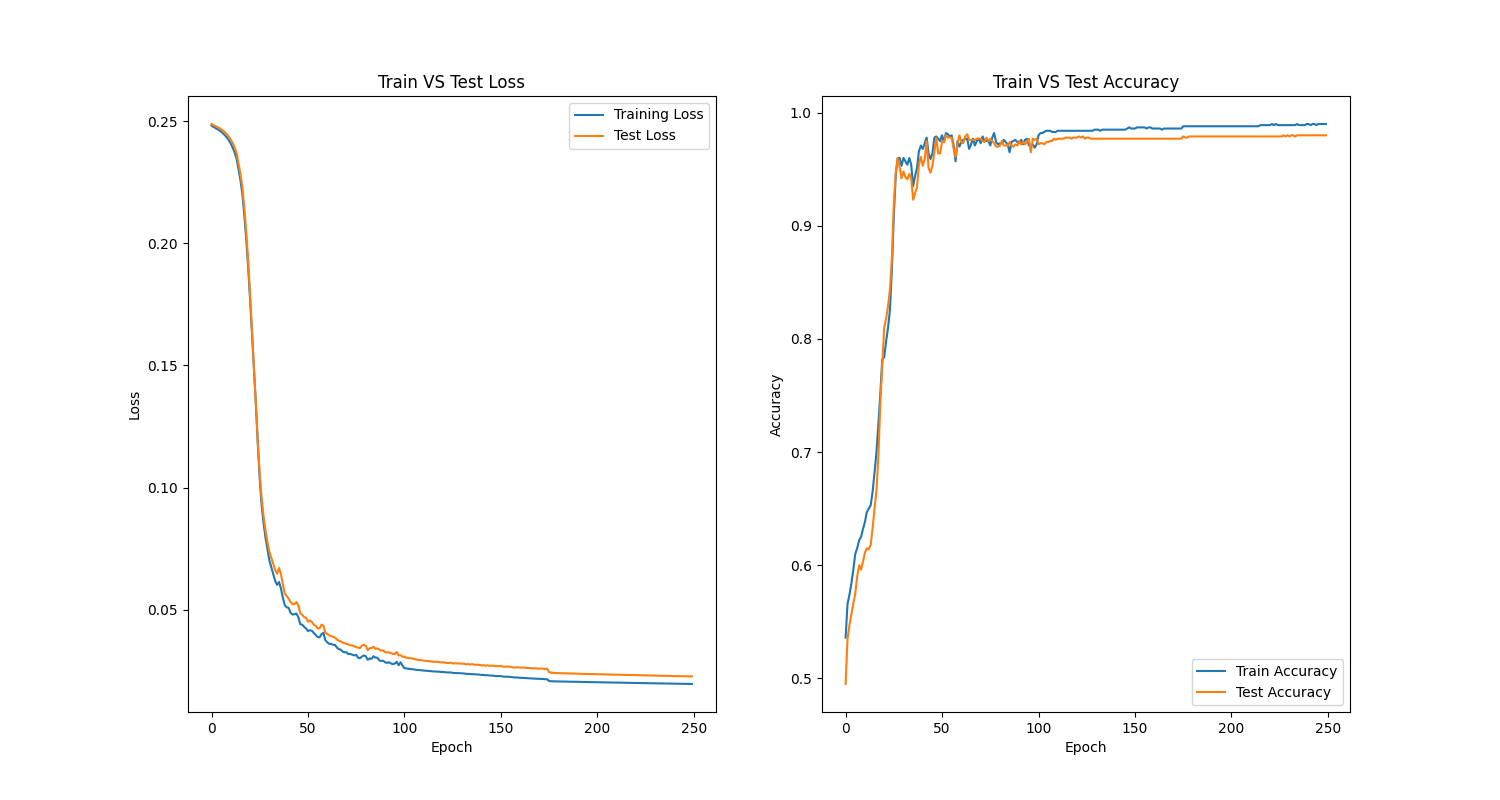
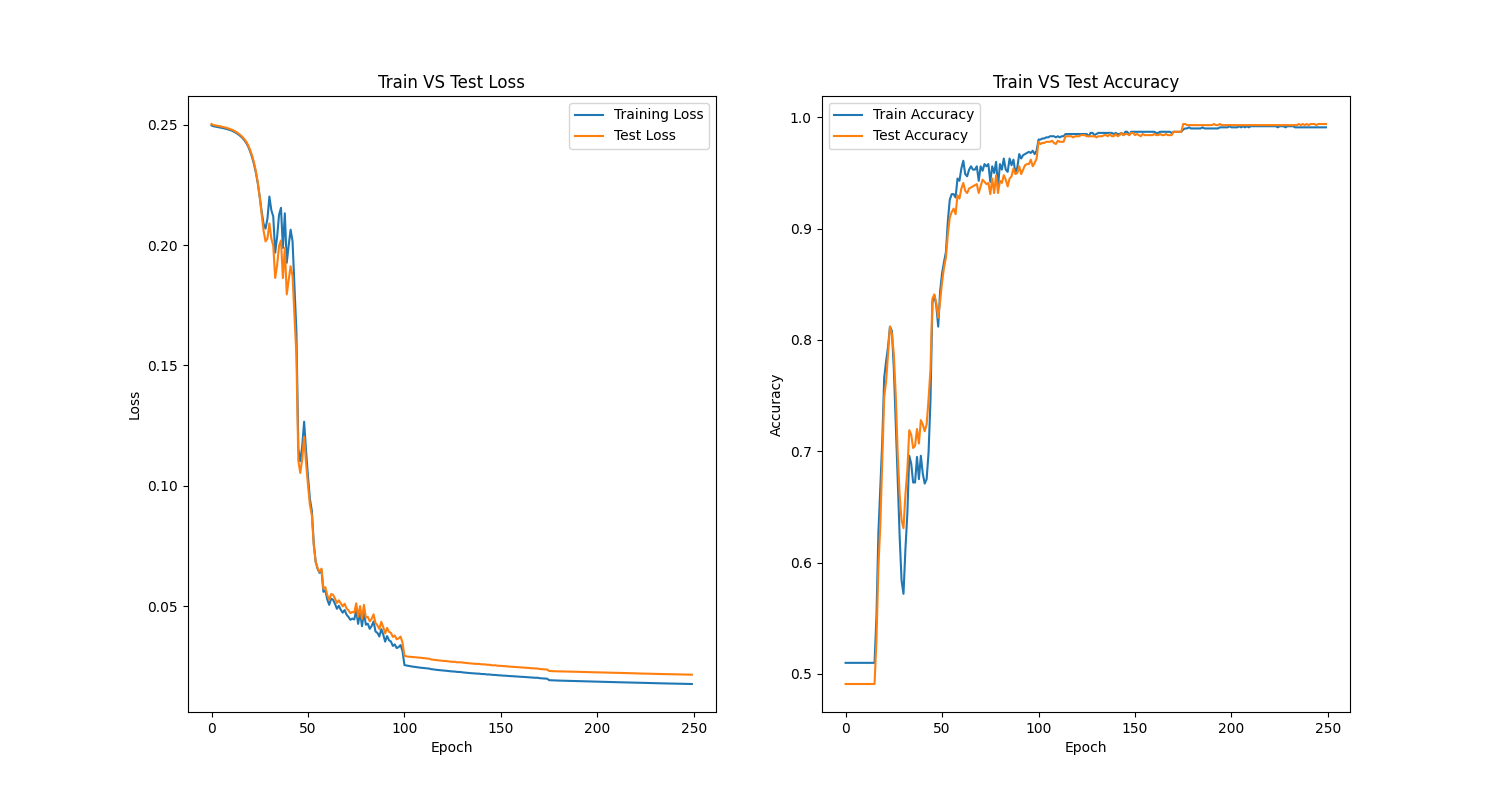
backup

diff --git a/proj2/Activation.py b/proj2/Activation.py
@@ -23,9 +23,10 @@ class Tanh(Module):
     The derivative of tanh(x) is 1 - tanh(x) ** 2
     """
     def forward(self, x):
-        ex = torch.exp(x)
-        esx = torch.exp(-x)
-        self.y = (ex - esx) / (ex + esx)
+        # ex = torch.exp(x)
+        # esx = torch.exp(-x)
+        # self.y = (ex - esx) / (ex + esx)
+        self.y=torch.tanh(x)
         return self.y
 
     def backward(self, eta):
@@ -37,8 +38,9 @@ class Sigmoid(Module):
     The derivative of Sigmoid(x) is Sigmoid(x)(1-Sigmoid(x))
     """
     def forward(self, x):
-        self.x=x
-        self.y=1/(1+torch.exp(-x))
+        # self.x=x
+        # self.y=1/(1+torch.exp(-x))
+        self.y = torch.sigmoid(x)
         return self.y
     def backward(self, eta):
         return eta*(self.y*(1-self.y))

diff --git a/proj2/test.py b/proj2/test.py
@@ -171,7 +171,6 @@ def compute_accuracy(true_target, predicted):
     return (true_target - (predicted > 0.5).float()).eq(0).float().mean().item()
 
 
-
 if __name__ == "__main__":
 
 
@@ -231,12 +230,12 @@ if __name__ == "__main__":
     plot_result(test_input, test_pred_2, test_target, 'model2')
 
     learning_rate_3 = [(0.1, 0)]
-    # train the model with Sigmois as the activation function
+    # train the model with Sigmoid as the activation function
     layers_3 = [
         {'type': 'Linear', 'shape': (2, 25)},
         {'type': 'Tanh'},
         {'type': 'Linear', 'shape': (25, 25)},
-        {'type': 'Tanh'},
+        {'type': 'Sigmoid'},
         {'type': 'Linear', 'shape': (25, 25)},
         {'type': 'Sigmoid'},
         {'type': 'Linear', 'shape': (25, 25)},
